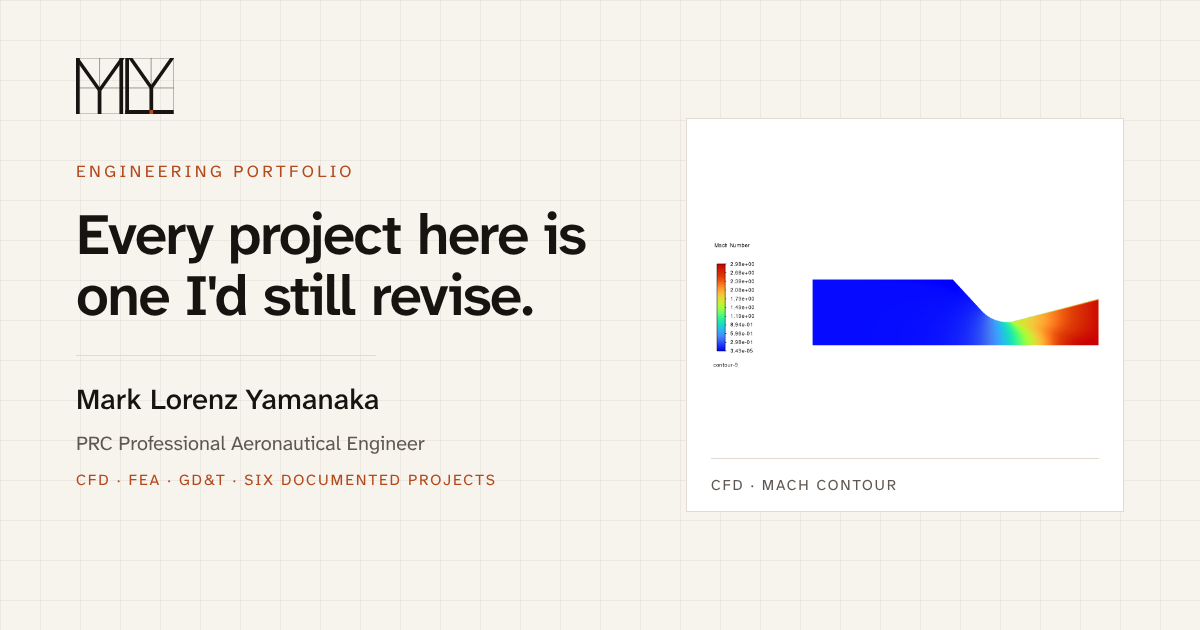
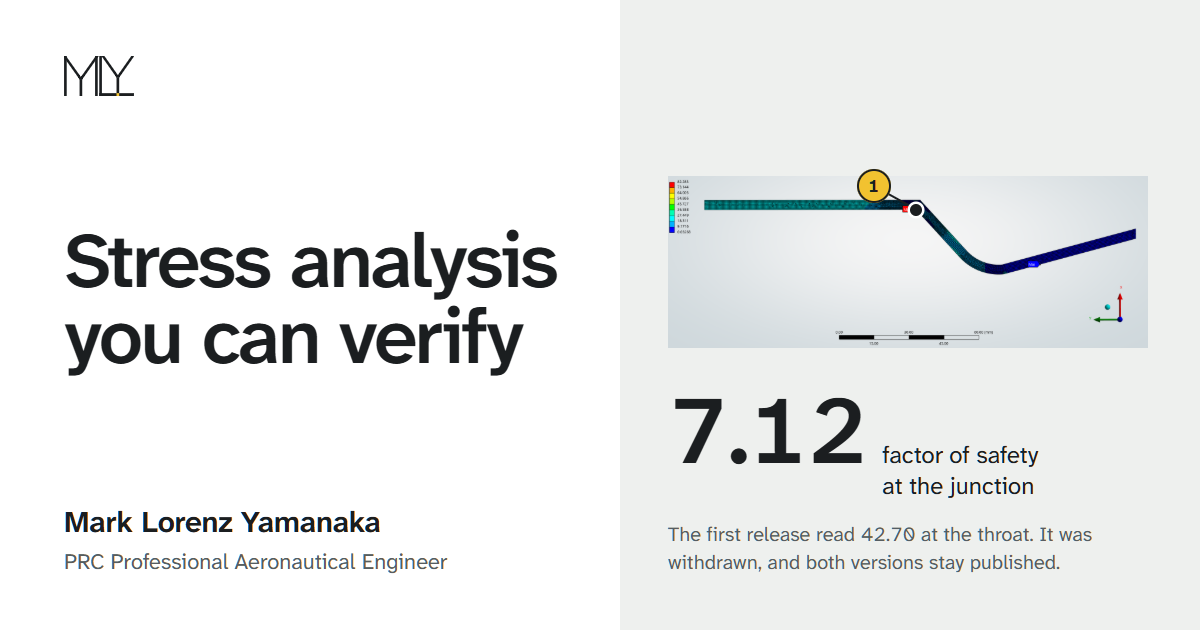
Link preview: og-card.png in the current design
The card was still the earlier design (cream grid, rust accent, "Every
project here is one I'd still revise."). It now mirrors the home page
hero: the headline, name and licence on white; on the aluminium
surface, the nozzle's von Mises plot with the v2.0 reading ballooned at
the junction, the 7.12 factor of safety and the withdrawn 42.70.

og:image:alt on all four pages describes the new card.

diff --git a/project/portfolio-light.html b/project/portfolio-light.html
@@ -18,7 +18,7 @@
 <meta property="og:image" content="https://www.mlyamanaka.com/og-card.png">
 <meta property="og:image:width" content="1200">
 <meta property="og:image:height" content="630">
-<meta property="og:image:alt" content="Mark Lorenz Yamanaka, PRC Professional Aeronautical Engineer — portfolio card showing a CFD Mach contour of a converging-diverging nozzle.">
+<meta property="og:image:alt" content="Stress analysis you can verify. Mark Lorenz Yamanaka, PRC Professional Aeronautical Engineer, beside a von Mises stress plot of a nozzle wall read at the junction: factor of safety 7.12.">
 
 <meta name="twitter:card" content="summary_large_image">
 <meta name="twitter:title" content="Mark Lorenz Yamanaka — Engineering Portfolio">

diff --git a/project/internships.html b/project/internships.html
@@ -18,7 +18,7 @@
 <meta property="og:image" content="https://www.mlyamanaka.com/og-card.png">
 <meta property="og:image:width" content="1200">
 <meta property="og:image:height" content="630">
-<meta property="og:image:alt" content="Mark Lorenz Yamanaka, PRC Professional Aeronautical Engineer — portfolio card showing a CFD Mach contour of a converging-diverging nozzle.">
+<meta property="og:image:alt" content="Stress analysis you can verify. Mark Lorenz Yamanaka, PRC Professional Aeronautical Engineer, beside a von Mises stress plot of a nozzle wall read at the junction: factor of safety 7.12.">
 
 <meta name="twitter:card" content="summary_large_image">
 <meta name="twitter:title" content="Internships — Mark Lorenz Yamanaka">

diff --git a/project/projects.html b/project/projects.html
@@ -18,7 +18,7 @@
 <meta property="og:image" content="https://www.mlyamanaka.com/og-card.png">
 <meta property="og:image:width" content="1200">
 <meta property="og:image:height" content="630">
-<meta property="og:image:alt" content="Mark Lorenz Yamanaka, PRC Professional Aeronautical Engineer — portfolio card showing a CFD Mach contour of a converging-diverging nozzle.">
+<meta property="og:image:alt" content="Stress analysis you can verify. Mark Lorenz Yamanaka, PRC Professional Aeronautical Engineer, beside a von Mises stress plot of a nozzle wall read at the junction: factor of safety 7.12.">
 
 <meta name="twitter:card" content="summary_large_image">
 <meta name="twitter:title" content="Projects — Mark Lorenz Yamanaka">

diff --git a/project/about.html b/project/about.html
@@ -18,7 +18,7 @@
 <meta property="og:image" content="https://www.mlyamanaka.com/og-card.png">
 <meta property="og:image:width" content="1200">
 <meta property="og:image:height" content="630">
-<meta property="og:image:alt" content="Mark Lorenz Yamanaka, PRC Professional Aeronautical Engineer — portfolio card showing a CFD Mach contour of a converging-diverging nozzle.">
+<meta property="og:image:alt" content="Stress analysis you can verify. Mark Lorenz Yamanaka, PRC Professional Aeronautical Engineer, beside a von Mises stress plot of a nozzle wall read at the junction: factor of safety 7.12.">
 
 <meta name="twitter:card" content="summary_large_image">
 <meta name="twitter:title" content="About — Mark Lorenz Yamanaka">
